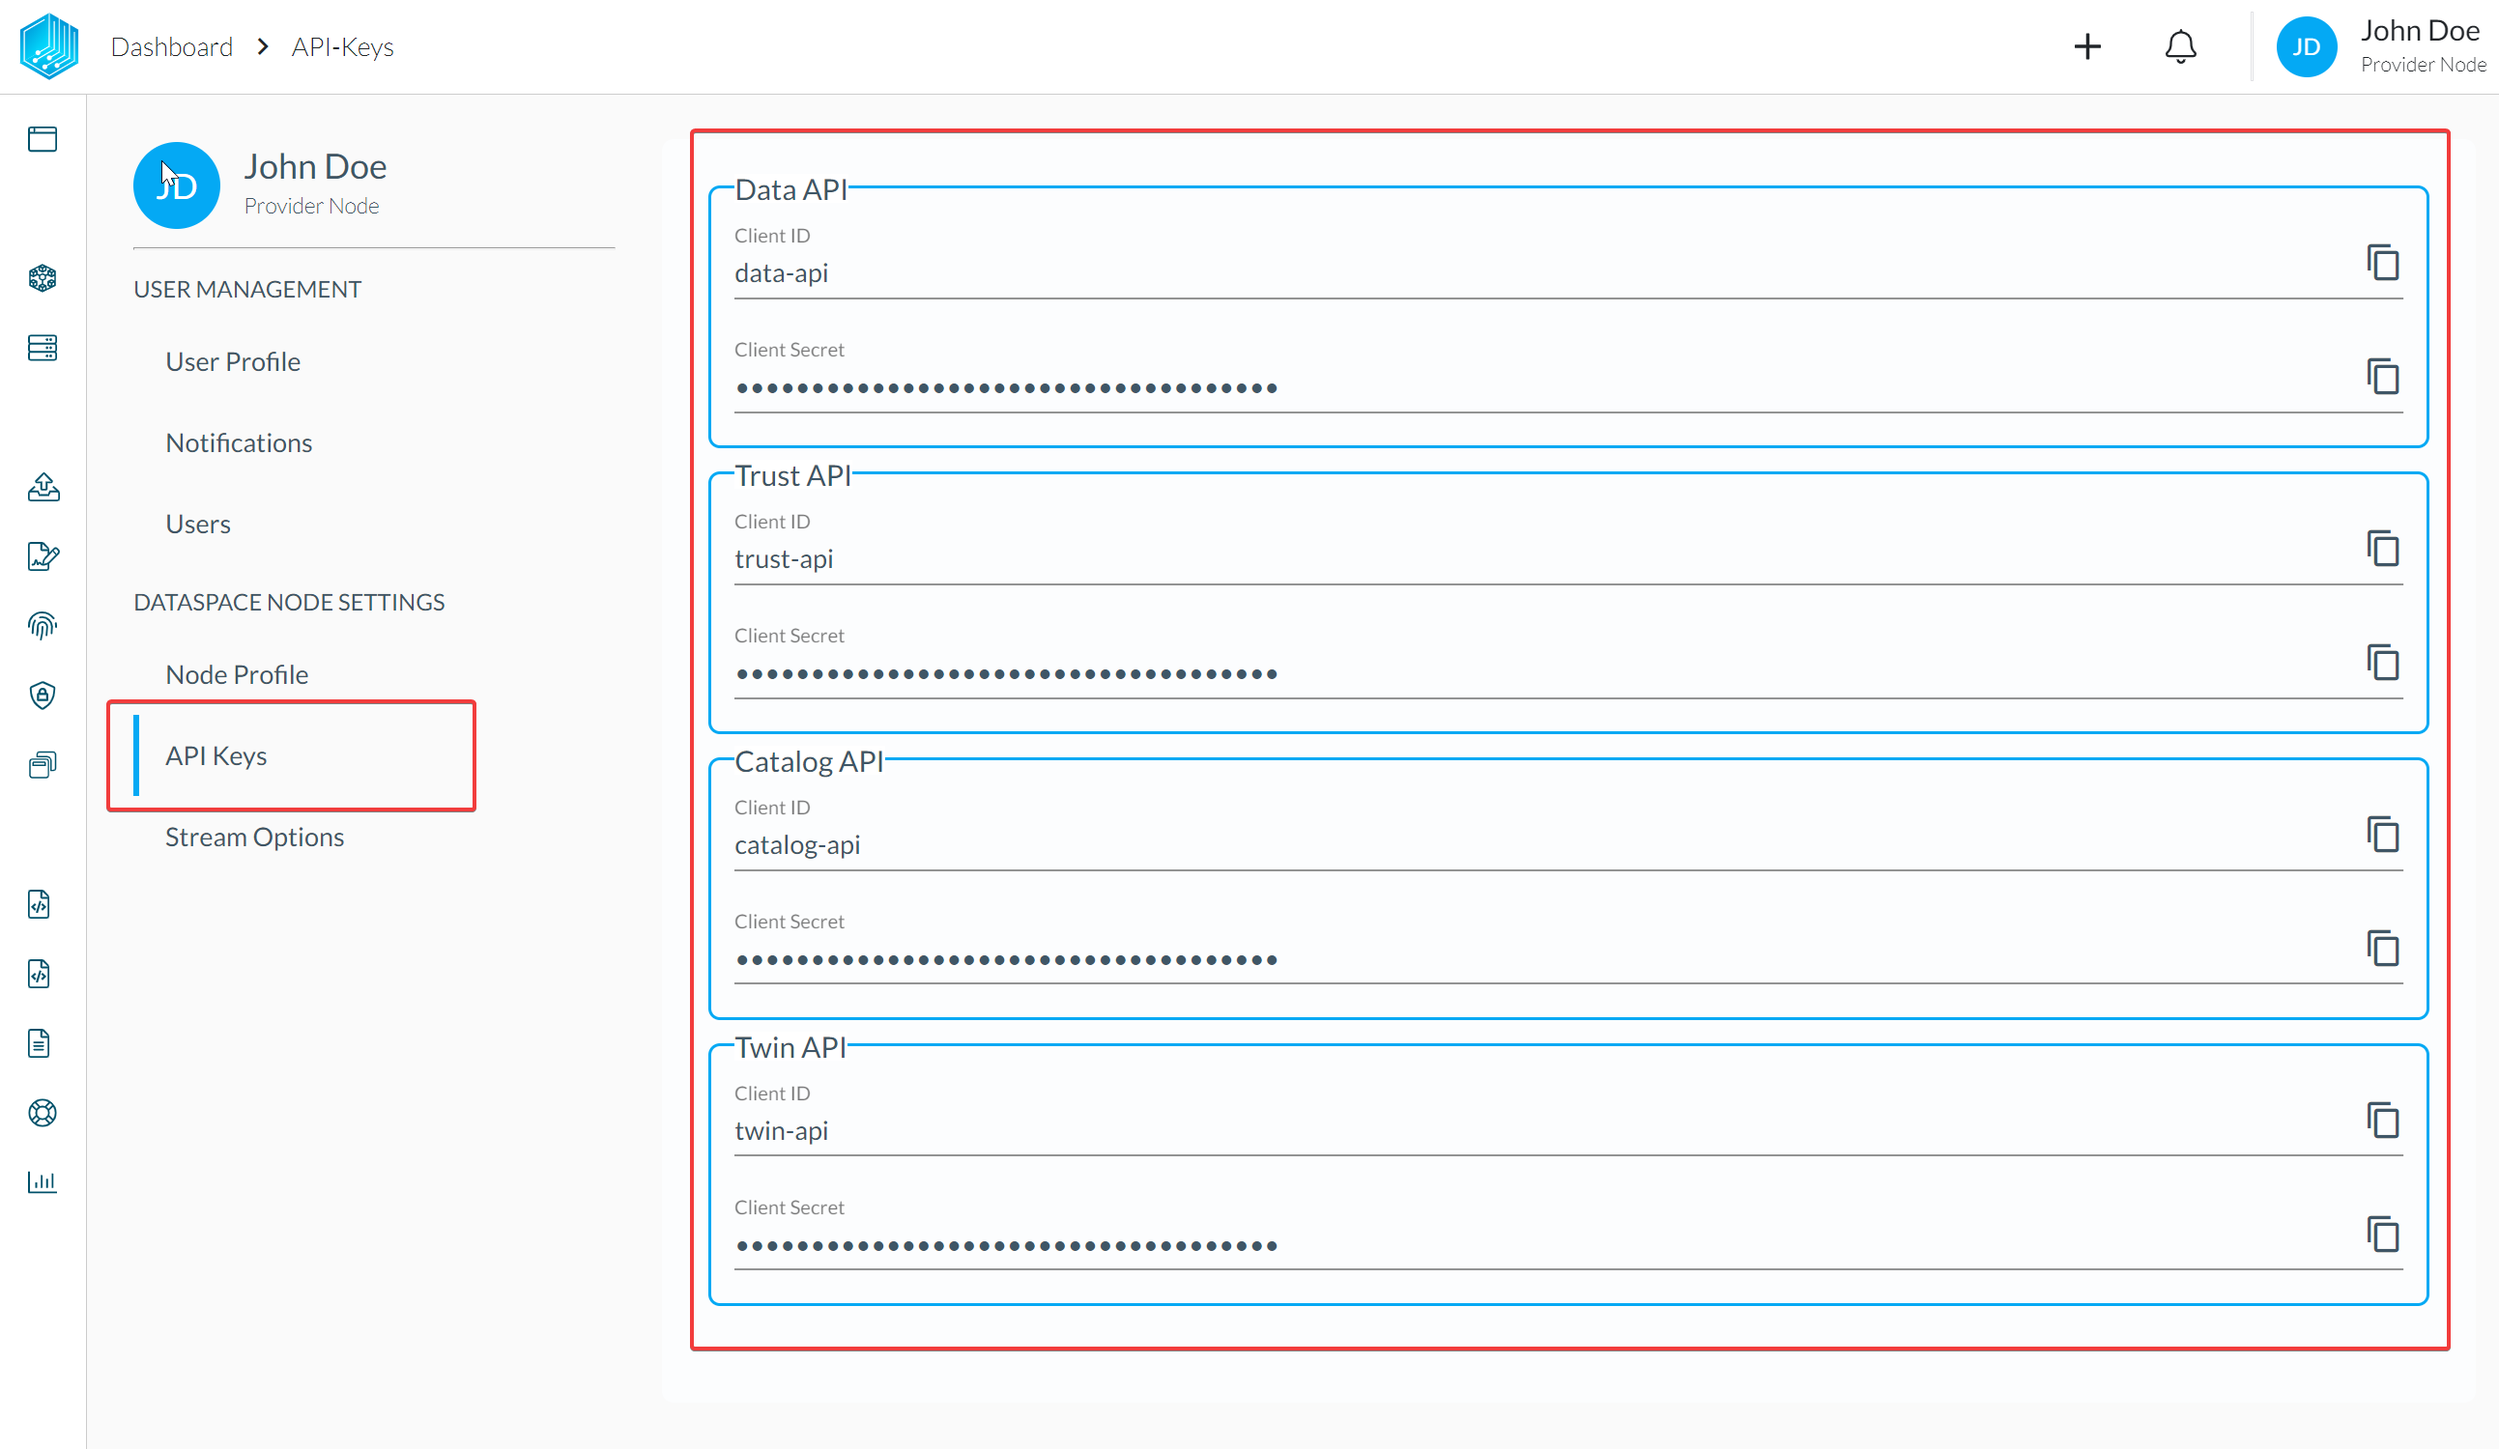
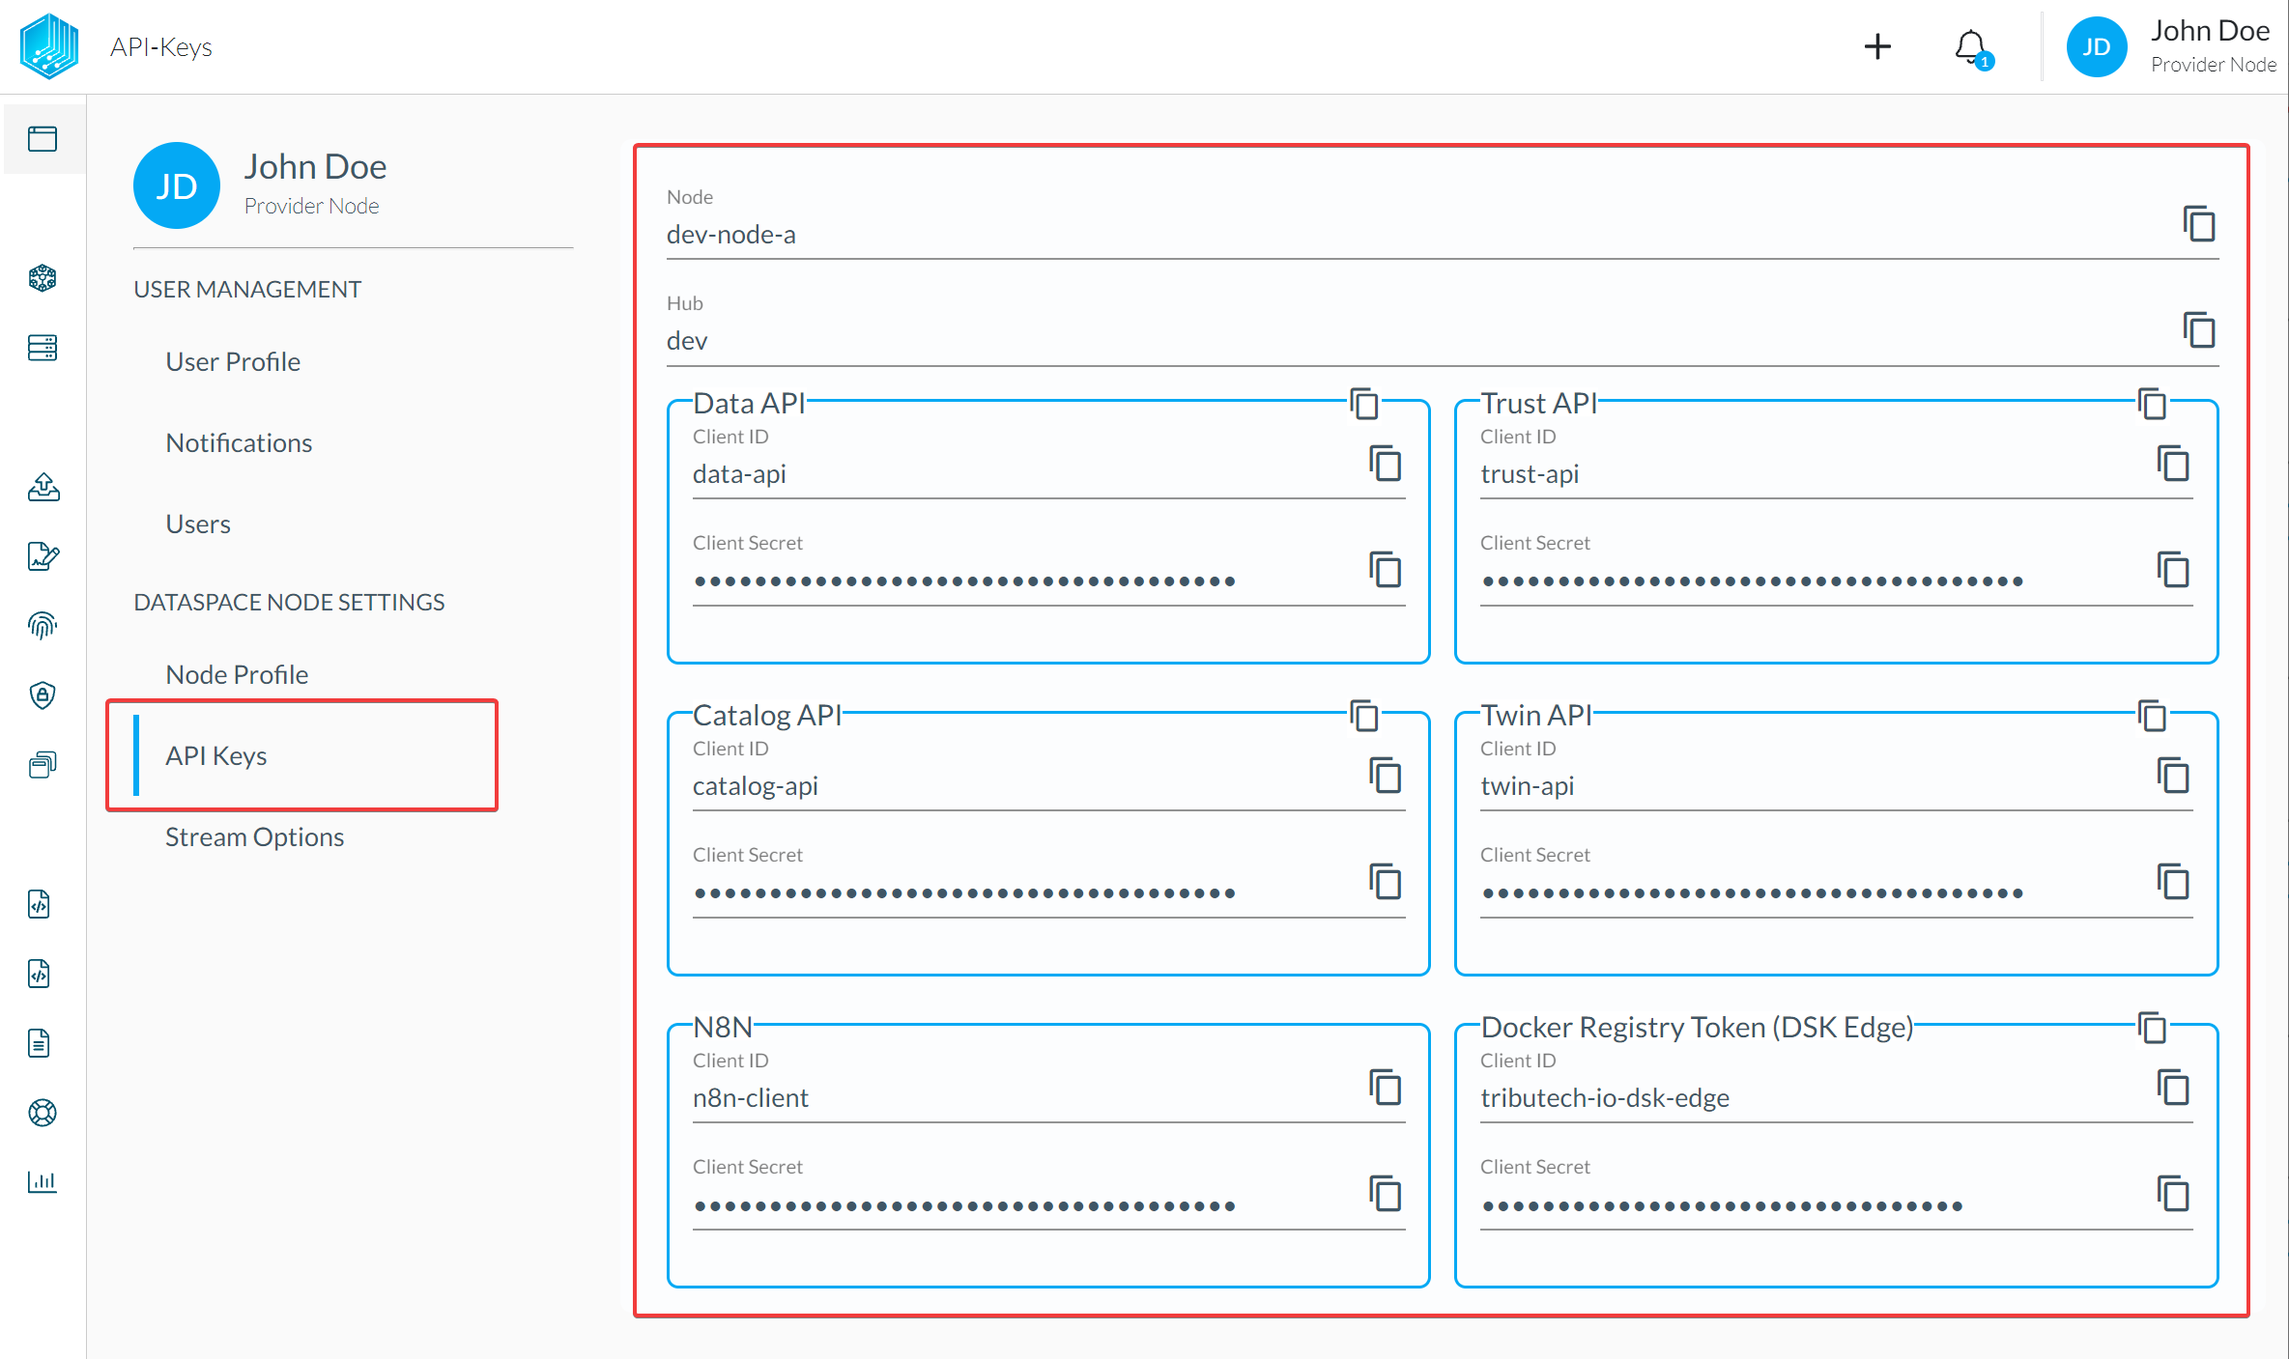
feat: DSK credentials (DSK-1687, DSK-1755)
accesing API keys (new style)
and Docker Registry Token (DSK Edge)

diff --git a/docs/setup/agent/_docker-compose-automated-setup.md b/docs/setup/agent/_docker-compose-automated-setup.md
@@ -11,25 +11,21 @@ Preview the Azure resources that will be created with the "Visualize" button.
   The Size needs to meet our [**Hardware Requirements**](./overview.md#hardware-requirements). We recommend e.g. `Standard_B1ms` or `Standard_DS1_v2`.  
   SSH access allows to connect to the VM for [**management purposes**](./docker-compose.mdx#docker-compose-commands) and to support SSH tunneling/port forwarding used for connections to the DSK Agent from the Agent Companion (see [**Connect to Edge Agent**](../agent_companion.mdx#connect-to-edge-agent)).  
   ![Agent deployment - Provide VM data](./img/agent-docker-deploy-2.png)
-- Provide DSK related configuration:
-
+- Provide DSK related configuration:  
+  To access the client secrets and some other information required in the next steps:
+    <ApiCredentials />
   - _DSK Agent id_: globally unique identifier (UUID) for the Agent
   - _DSK Hub name_: The name of the DSK Hub to which your DSK Node is connected.  
     (e.g. `your-hub` for `your-hub.dataspace-hub.com`)
     :::note
-    For our [**Playground Ecosystem**](https://tributech.io/playground) this is `play.dataspace-hub.com`.
+    For our [**Playground Ecosystem**](https://tributech.io/playground) this is `play` for `play.dataspace-hub.com`.
     :::
   - _DSK Node name_: The name of your DSK Node to which the DSK Agent will be linked.  
     (e.g. `your-node` for `your-node.dataspace-node.com`)
   - _Data-API client secret_: The client secret for the authentication at the Data-API of the DSK Node.  
-    To access the client secrets:
-    <ApiCredentials />
   - _Trust-API client secret_: The client secret for the authentication at the Trust-API of the DSK Node.
-  - _Docker Registry token name_: The name of the token used for authentication at the private Docker Registry hosting the DSK Agent Docker images. Default: `tributech-io-dsk-edge`.
-  - _Docker Registry access token_: The access token for authentication at the private Docker Registry hosting the DSK Agent Docker images.
-    :::info
-    The access token will currently be provided to you as part of the **playground sign-up** email. Head over to [**Tributech.io/Playground**](https://tributech.io/playground) and sign-up if you're interested.
-    :::
+  - _Docker Registry Token (DSK Edge) name_: The name of the token used for authentication at the private Docker Registry hosting the DSK Agent Docker images. Default: `tributech-io-dsk-edge`.
+  - _Docker Registry Token (DSK Edge) secret_: The access token for authentication at the private Docker Registry hosting the DSK Agent Docker images.
   - _Docker Image Tag_: The Docker Image tag defining the DSK Agent version to be deployed.
   - _Additional DSK Edge services_:
     - _None_: Only the main DSK Edge services (DSK Agent and mosquitto MQTT broker) will be deployed.
